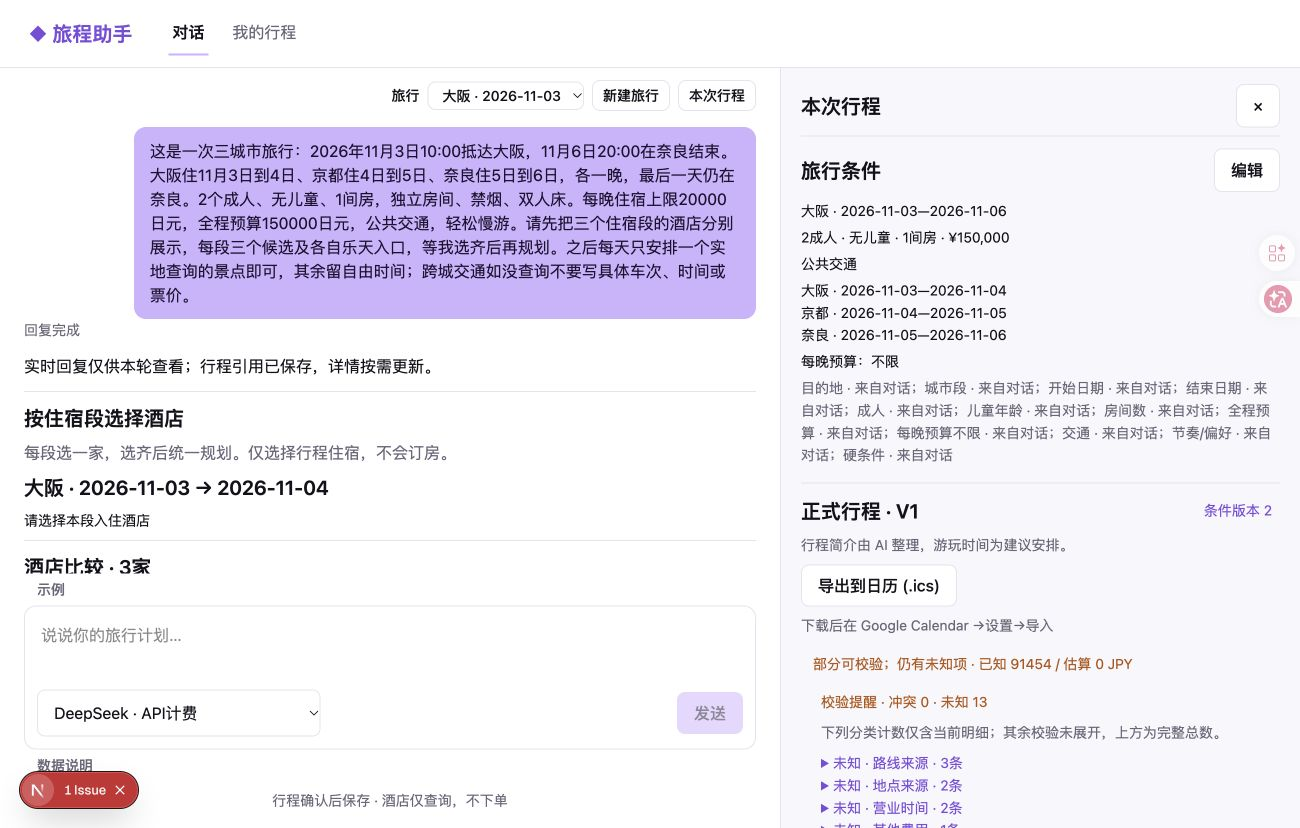
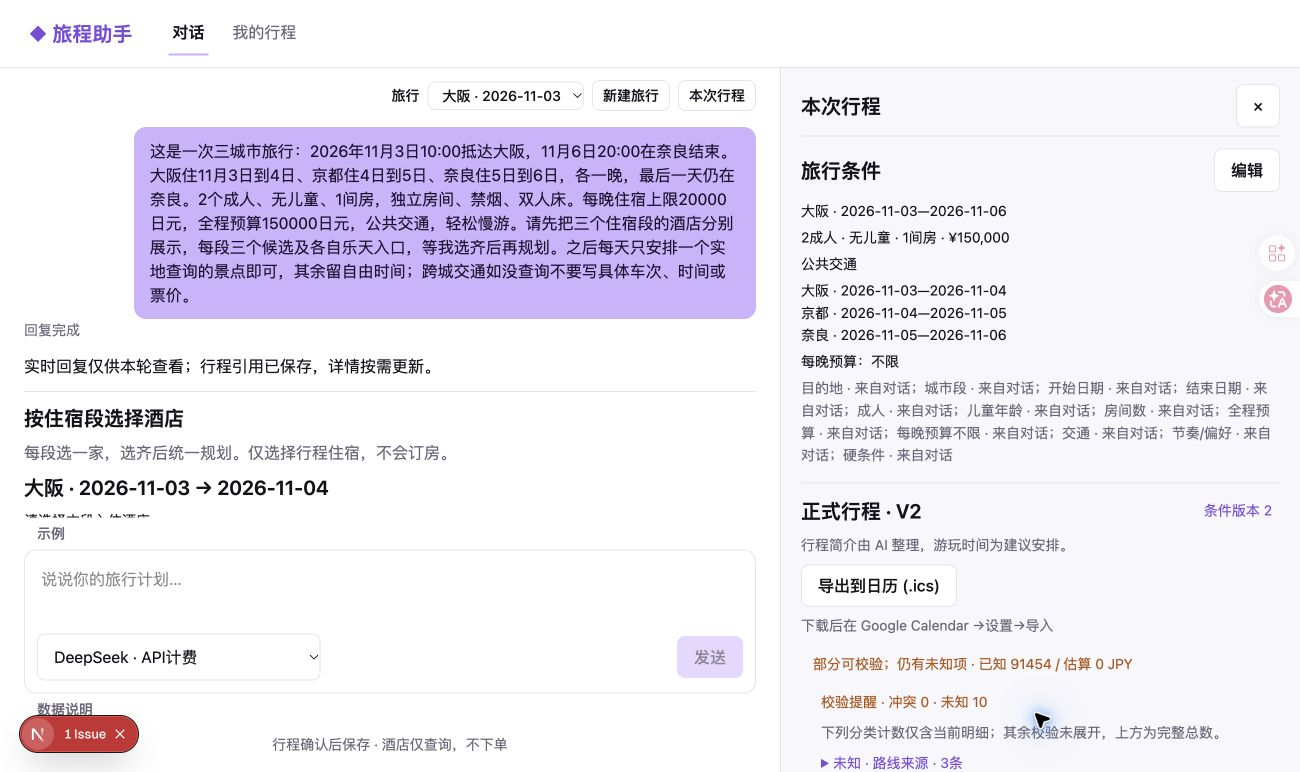
H4: complete real model hotel acceptance through saved V2
Record the approved Places110 continuation, one successful validation, four structured days and seven items, and the original three selected hotels saved and restored from PostgreSQL in Chrome. Preserve V1 evidence, unknown facts, accumulated supplier calls and the CNY15 daily budget. No implementation or validation changes.

diff --git a/docs/plans/2026-10-11-segment-hotel-selection.md b/docs/plans/2026-10-11-segment-hotel-selection.md
@@ -10,7 +10,8 @@
 ## 2. 待用户决定
 - D1（2026-10-11 已决定）：用户明确采用“三行酒店、每段选一家、各自跳转乐天、选齐后再规划”。按住宿段而非城市名称分组，重访同城仍分别选择。
 - D2（2026-10-11 已决定）：取消 HUMAN 单轮次数上限；DEFAULT/RELAXED 和现有每日供应商配置、取消、超时、身份/版本/512 KiB 边界保持。
-- 功能决定已定；按用户要求以最小改动完成可用性收尾。验收追加 Places 日配额90→110的授权仍待答。
+- D3（2026-10-11 已决定）：用户批准 Places 日配额提高到110，替代先前100提议；保留已用90次和模型每日15元预算。
+- 功能决定已定；按用户要求以最小改动完成可用性收尾。
 
 ## 3. 评审与设计
 - VERIFIED：失败执行触发 routes 单轮 80 次及模型 HTTP 40 次保护；上游 40 次均 200，却被映射为 provider_error。校验中存在失效/错误引用及三段住宿漏填；没有草稿。
@@ -25,7 +26,7 @@
 | H1 | 人工单轮额度 | 无 | 超过 40 模型请求、80 路线、50 校验仍可执行；有限档位和拒绝边界有效 | done | 8d6657e · 先红 2 failed；专项 118 passed；check 303 文件/三平台/3 contracts/10 文档通过；独立审查无 P1/P2；全量 1565 passed/1 历史 skip/4 live deselected；web-check 129 passed/构建通过 |
 | H2 | 按段选酒店 | H1 | 三住宿段各自候选/入口；少一段不能规划；完整选择引用正确；旧单城市兼容 | done | e69c725 · 先红→专项71 passed；全量1577 passed/1历史skip/4 live deselected（303.30s）；web133 passed/type/lint/build；check304文件三平台/契约/文档；审查5项P2已关闭，已提交push |
 | H3 | 规划修复反馈 | H2 | 本地保护停止准确分类；错误证据可定位；不放宽业务校验 | done | ba283ba · 先红6失败；审查边界先红3失败→147专项passed；check304文件三平台/3契约/10文档与web134passed/type/lint/build；全量1589passed/1历史skip/4live deselected（305.51s）；已commit/push |
-| H4 | 验证发布 | H3 | 全量项目检查、真实 PG、Chrome、预算内模型与独立审查；push 后核对部署 | doing | Chrome三行/2段禁用/3段启用、真实模型3轮校验（首次＋2轮修正）、三酒店V1保存刷新成功；旧格式京都V2读→锁定V3→刷新成功；最后日/地点详情待配额授权 |
+| H4 | 验证发布 | H3 | 全量项目检查、真实 PG、Chrome、预算内模型与独立审查；push 后核对部署 | doing | Chrome三行/2段禁用/3段启用、真实模型3轮校验（首次＋2轮修正）、三酒店V1保存刷新成功；旧格式京都V2读→锁定V3→刷新成功；Places110已批准；真实续接57d5ba76首次校验零冲突→V2保存刷新成功（4天7项）；源码未变；最终证据审查/提交中 |
 
 ## 5. 边界与不变量
 - 单城市证据条件、校验及保存/恢复兼容；不同住宿段不得修改全局 city/日期来查询。
@@ -41,8 +42,8 @@
 ### 2026-10-11
 - 计划：H1–H4。
 - 完成：H1（8d6657e）、H2（e69c725）、H3（ba283ba）均已push；最终全量1589 passed、web134、check与独立审查通过；上一多城市批次保持已完成。
-- 未完成及原因：H4真实三酒店选择→规划→V1保存刷新已通过；返程日结构化项目和2地点详情因Places90用尽待110授权，Railway三服务已部署到证据提交91268b1（SUCCESS），公开网站HTTP200；最终CI从§9的PR检查入口核对。
-- 下一步：补齐H4返程日/地点详情；不重新发送已完成的付费消息。中断从本计划、Git和忽略的 `.cache/segment-hotel-selection/` 恢复，不重发付费消息。
+- 未完成及原因：H4验收内容已全部走通，正在归档独立复核及提交；用户已批准110，V2四天七项及三家酒店保存刷新恢复成功。运行代码与ad4d920一致，该提交六项CI和三服务部署全部SUCCESS，公开HTTP200。
+- 下一步：独立复核最终证据后提交/push并核对最终CI/CD；中断从本计划、Git和忽略的 `.cache/segment-hotel-selection/` 恢复，不重发付费消息。
 
 ## 8. 问题解决记录
 ### P-01 人工额度与误报　状态：done　关联：H1 H3
@@ -72,8 +73,11 @@
 - 新合成会话d22601e3，预算15 CNY保持；验收前9.336994 CNY，Places80/90。大阪/京都/奈良各住一晚，9候选分别展示，2/3按钮禁用、3/3才启用，链接各为三城的乐天页。
 - 每晚20000候选有超限，按合成验收正常对话改为不限、双人床/双床可接受；新版本重新查询，旧卡禁用；没有改价格或放宽校验。
 - VERIFIED：规划run c359ff6d（10 HTTP/15 tools），3轮validate（partial→route_departure冲突→partial零冲突），stage/present成功；三家规范报价按3→4/4→5/5→6日晚保存V1，刷新与PG实读一致。未查询跨城票价/耗时保留未知；未下单。
-- 遗留：模型仅将11/6返程日写入说明，结构化内容3天6项，需补最后日；Places日配额90用尽导致2地点详情未恢复，不是假称供应商异常。初次估算追加到100遗漏重启后两进程分别重取（预计约14次），已更正询问110替代100；授权未到前不放宽机器配额、不清账本。累计10.652244 CNY、Places90、routes79、Rakuten52。旧单城京都读/锁定/刷新V3成功，报价过期的时间修改按既有规则拒绝，不放宽校验。
-- 本条并非功能全部完成证据；H4仍doing，等待补齐。恢复点91268b1已push，后续记录提交不改变实现；机器额度追加仍待用户明确回答。
+- 原遗留（续接前）：模型仅将11/6返程日写入说明，结构化内容3天6项，需补最后日；Places日配额90用尽导致2地点详情未恢复，不是假称供应商异常。初次估算追加到100遗漏重启后两进程分别重取（预计约14次），已更正询问110替代100；授权未到前不放宽机器配额、不清账本。累计10.652244 CNY、Places90、routes79、Rakuten52。旧单城京都读/锁定/刷新V3成功，报价过期的时间修改按既有规则拒绝，不放宽校验。
+- 2026-10-11续接：用户明确批准110替代100，保留90计数及15元模型日限；本地.env仅更新Places配额，重启本批自有API，从已存V1补返程日及缺失详情。H4仍doing，完成保存/刷新前不改done。
+
+- VERIFIED续接结果：run57d5ba76完成（8 HTTP/10 tools），原三报价分别refresh、原三路线重新查询；首次validate partial v16/u10/c0，0修正轮，stage/present成功。Chrome确认保存V2并刷新恢复4天7项、三家酒店及全部地点名称；PG实读V1/V2原六项ID/地点/时间/锁定/说明一致，三家酒店ID及住宿证据条件完全相等，全局city仍大阪、revision仍2。新返程日首项route=null，不伪造跨城信息。
+- 费用与配额：Places90→104（新增14，110授权内）、routes79→82、Rakuten52→55、geocode仍2；模型10.652244→11.041656 CNY（新增0.389412，15日限内）；不清账本。原缺失两地点已恢复；无代码/断言/校验修改。最终证据复核及commit后关闭本条。
 
 ## 9. 验证与交付
 - 命令：`uv run python scripts/dev.py db-up / check / test / web-generate / web-check`。
@@ -88,5 +92,5 @@
 - H3：最终全量1589 passed/1历史skip/4live deselected（305.51s）；专项147 passed（8.20s）；check304文件/三平台/3契约/10文档；web134 passed/type/lint/build；独立复核无剩余P1/P2。
 
 - 发布检查：91268b1的push/PR六项CI全部SUCCESS，Railway api/web/supplier均为SUCCESS，公开页面HTTP200；[PR #6 的持续CI检查](https://github.com/Cookie0103/travel_agent/pull/6/checks)为最终提交检查入口。不合并main。
-- H4阶段证据：[合成真实验收元数据](../evidence/2026-10-11-segment-hotels-live-acceptance.json)、[选齐按钮](../evidence/2026-10-11-segment-hotels-all-selected.png)、[保存刷新](../evidence/2026-10-11-segment-hotels-saved-restored.png)、[旧单城修改刷新](../evidence/2026-10-11-segment-hotels-legacy-restored.png)。模型/API结果和未完成项分别记录，不把partial当完整验收；截图为局部视觉证据，不单独证明全部步骤或三行同屏。
-- 自审：H1/H2/H3独立审查与完整回归覆盖单城市条件/校验/读写、选择幂等/时效/归属、取消/超时/512 KiB；无新增依赖/运行时/模型循环/框架。对照§1，三行酒店、完整选择、规范住宿引用、人工次数上限与原因提示已实现；最终返程日/地点详情验收未完成，H4不标done。
+- H4阶段证据：[合成真实验收元数据](../evidence/2026-10-11-segment-hotels-live-acceptance.json)、[选齐按钮](../evidence/2026-10-11-segment-hotels-all-selected.png)、[保存刷新](../evidence/2026-10-11-segment-hotels-saved-restored.png)、[旧单城修改刷新](../evidence/2026-10-11-segment-hotels-legacy-restored.png)、[V2返程日恢复](../evidence/2026-10-11-segment-hotels-return-day-restored.png)。模型/API结果和未完成项分别记录，不把partial当完整验收；截图为局部视觉证据，不单独证明全部步骤或三行同屏。
+- 自审：H1/H2/H3独立审查与完整回归覆盖单城市条件/校验/读写、选择幂等/时效/归属、取消/超时/512 KiB；无新增依赖/运行时/模型循环/框架。对照§1，三行酒店、完整选择、规范住宿引用、人工次数上限与原因提示已实现；返程日和全部地点详情现已恢复，真实V2保存/刷新及预算检查完成；待最终证据独立复核和提交后标H4 done。
